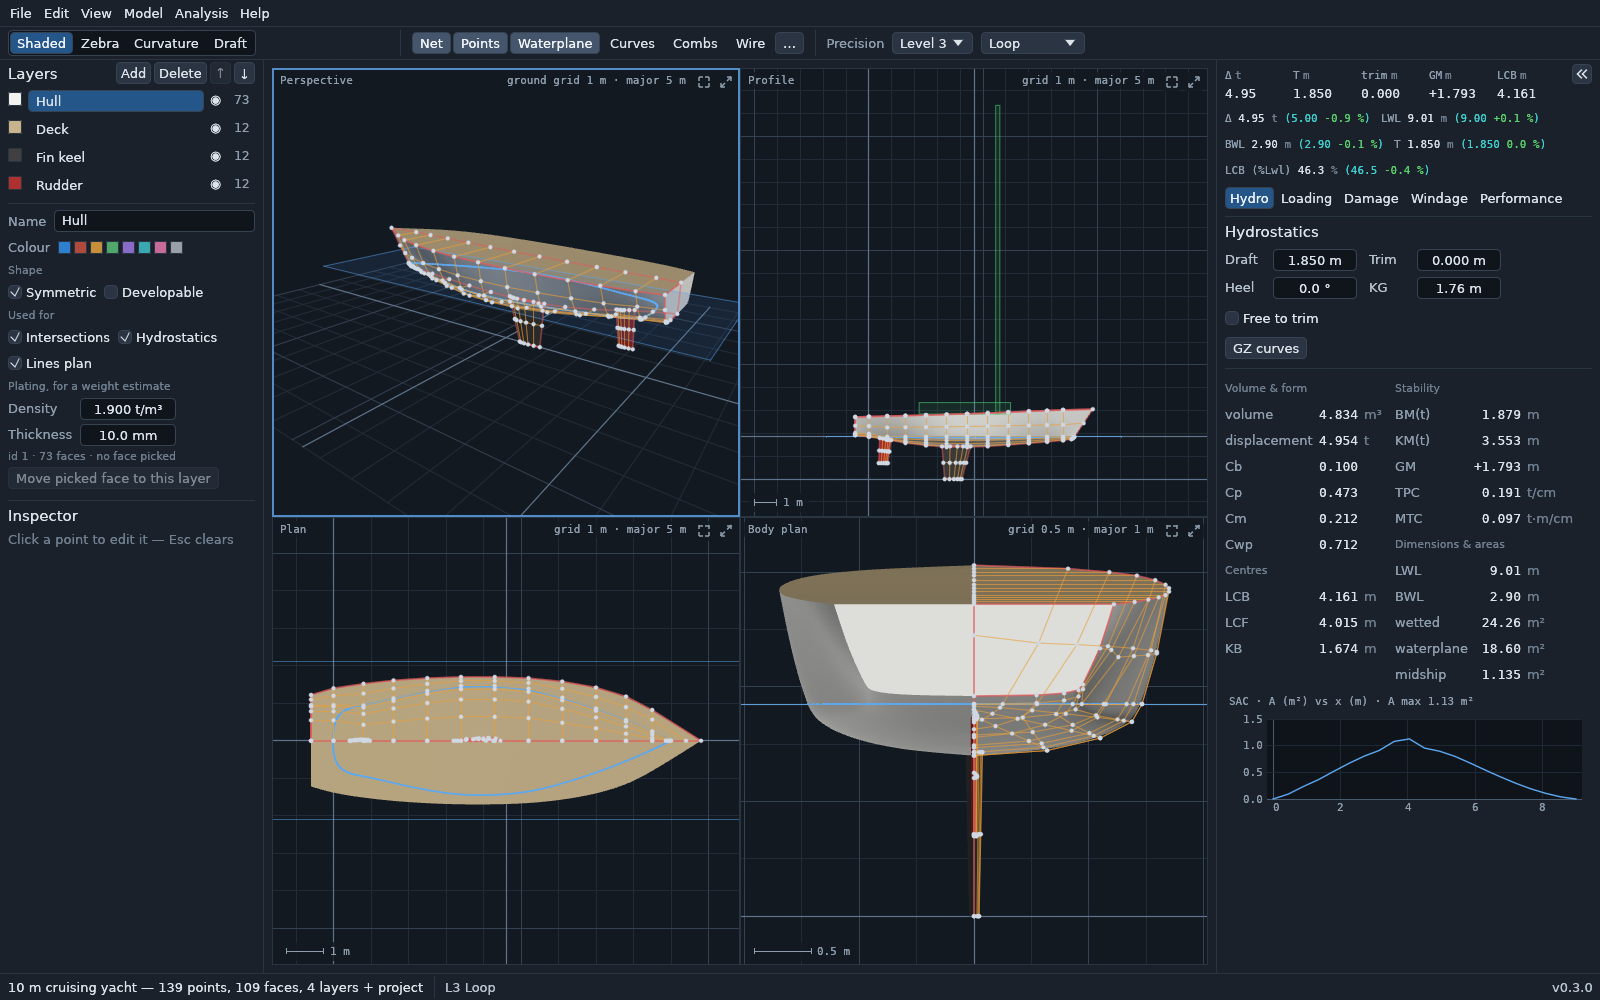
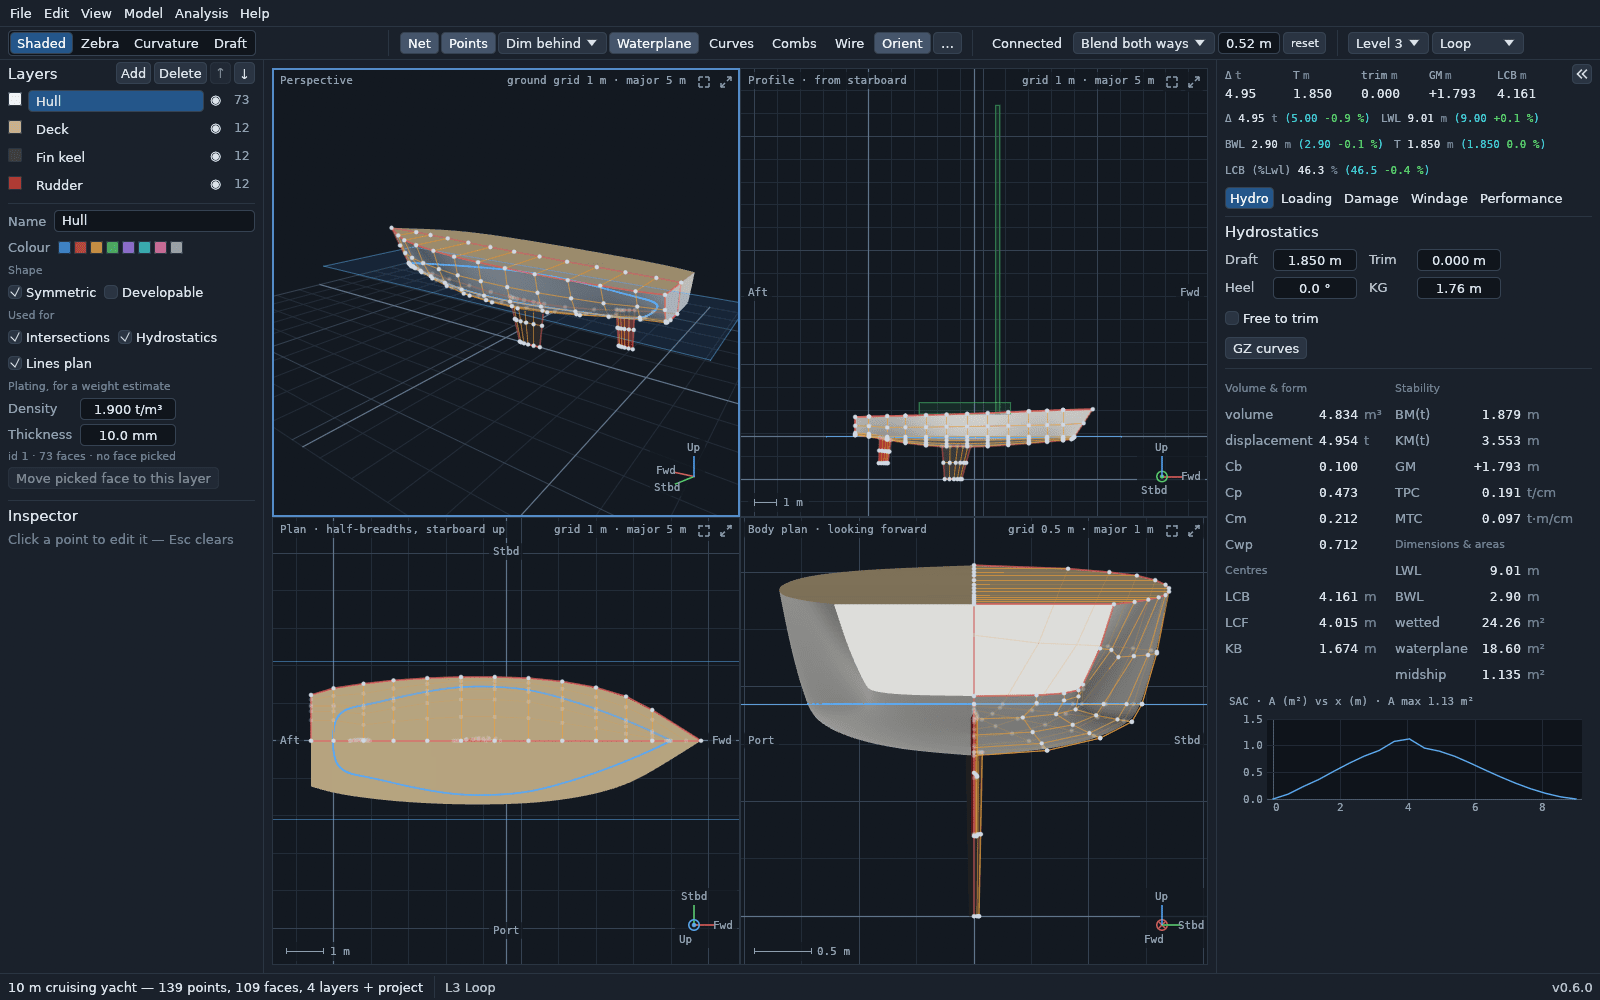
docs: screenshots of SeaCraft 0.6.0
Taken from a release build of the v0.6.0 tag at 1600 x 1000, passed through pngquant
(quality 70-90) and oxipng: the main window 406 -> 131 kB, and the Wave pattern and Heel
and righting arm views cropped to their drawer (49 and 28 kB). build.py copies every
docs/assets/gui*.png.

diff --git a/site/src/index.html b/site/src/index.html
@@ -96,6 +96,16 @@
     <img src="assets/gui.png" width="1600" height="1000" loading="lazy" alt="The SeaCraft desktop modeller: four linked viewports showing a 10 m yacht, with layers on the left and hydrostatics on the right.">
     <figcaption class="wrap">The desktop app with the 10 m yacht example open.</figcaption>
   </figure>
+  <div class="wrap views">
+    <figure>
+      <img src="assets/gui-waves.png" width="940" height="420" loading="lazy" alt="The Wave pattern view in SeaCraft 0.6.0 for the 230 m container ship at Froude number 0.30: the wave field behind the hull, with the regime, wave length, highest crest and wave drag beside it, and the wave drag coefficient against Froude number and the wash at 232.5 m on the right.">
+      <figcaption>Wave pattern: the container ship at Froude number 0.30, with the wave drag curve and the wash at a chosen distance.</figcaption>
+    </figure>
+    <figure>
+      <img src="assets/gui-heel.png" width="950" height="420" loading="lazy" alt="The Heel and righting arm view in SeaCraft 0.6.0 for the 22 m trawler: the section heeled 9.0° to starboard with B and G marked, and the readout of righting lever, GZ, heeling arm, draft and trim.">
+      <figcaption>Heel and righting arm: the trawler with 12 t added on deck to starboard, a loading condition made for this picture, settles at 9.0°.</figcaption>
+    </figure>
+  </div>
 </section>
 
 <section class="section section-loop" id="loop" aria-labelledby="loop-title">

diff --git a/site/src/style.css b/site/src/style.css
@@ -207,6 +207,11 @@ input[type="range"]::-moz-range-thumb { width: 16px; height: 16px; border: 3px s
 .screenshot img { width: min(100%, 1600px); height: auto; margin-inline: auto; }
 .screenshot figcaption { margin-top: .75rem; color: var(--ink-soft); font-size: .9375rem; }
 
+.views { display: grid; grid-template-columns: repeat(auto-fit, minmax(min(100%, 26rem), 1fr)); gap: 1.5rem clamp(1.5rem, 3vw, 2.5rem); margin-top: clamp(3.5rem, 6vw, 5rem); }
+.views figure { margin: 0; }
+.views img { width: 100%; height: auto; }
+.views figcaption { margin-top: .6rem; color: var(--ink-soft); font-size: .9375rem; max-width: 40rem; }
+
 .section-loop { background: var(--hull-air); }
 .loop-head p { max-width: 42rem; margin-top: 1.5rem; }
 .steps { list-style: none; margin: clamp(2.5rem, 5vw, 4rem) 0 0; padding: 0; counter-reset: step; }

diff --git a/site/build.py b/site/build.py
@@ -747,7 +747,8 @@ def main():
                 (out / item.name).write_text(text, encoding="utf-8")
     assets = out / "assets"
     assets.mkdir()
-    shutil.copy(ROOT / "docs" / "assets" / "gui.png", assets / "gui.png")
+    for shot in sorted((ROOT / "docs" / "assets").glob("gui*.png")):
+        shutil.copy(shot, assets / shot.name)
     fonts = out / "fonts"
     fonts.mkdir()
     for item in FONTS.iterdir():
